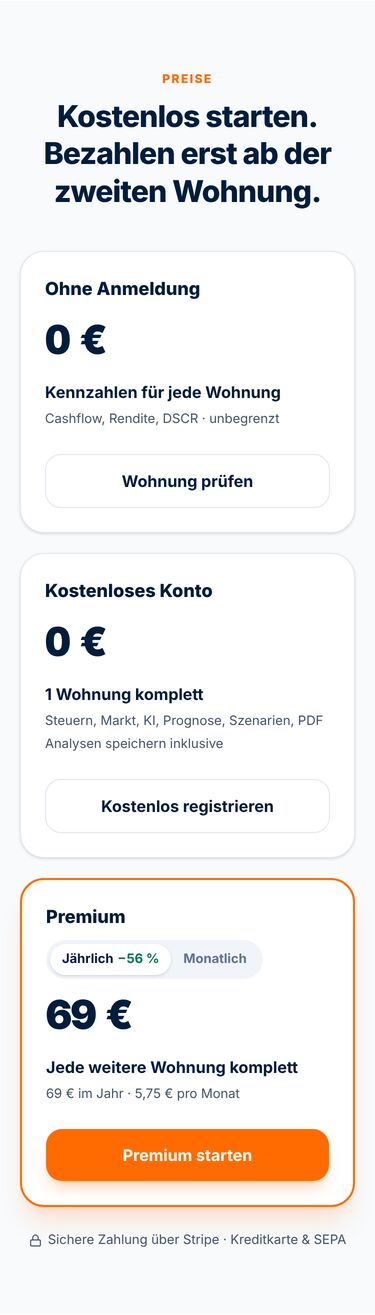
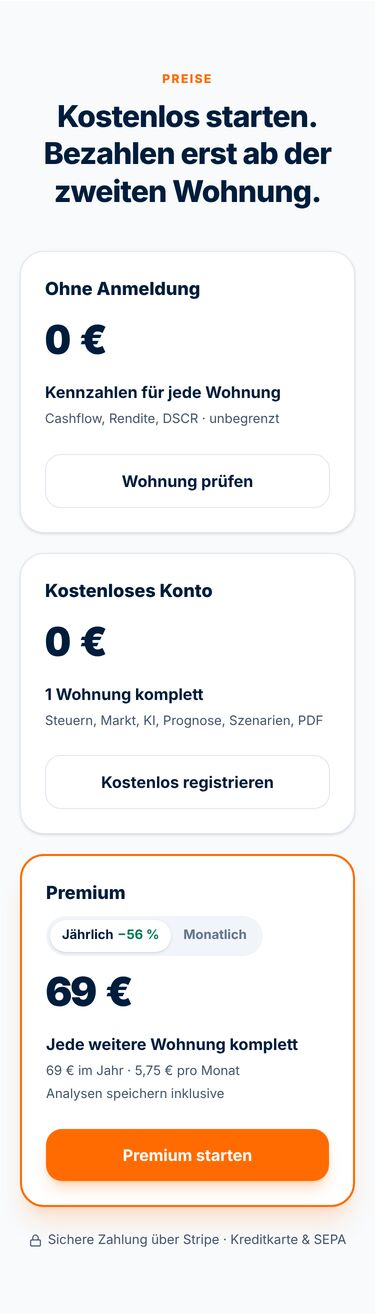
Speichern nur mit Premium
- /api/analysis und /api/scenarios (POST) prüfen serverseitig auf aktives Premium (403 sonst)
- Speichern-Button: ohne Premium 'Speichern mit Premium', öffnet die Paywall (quelle 'speichern')
- Paywall: eigene Überschrift fürs Speichern; 'Zu meiner Gratis-Analyse' entfällt
- Texte angepasst: Preisspalten, FAQ, Hilfe, Abo-Seite, Meine Analysen, Upgrade-Modal
- Screenshots der Preisbereiche aktualisiert

Claude-Session: https://claude.ai/code/session_016kt66GNdhUoermkE7JN8rk

Changed region(s): [[0.0293, 0.5612, 0.968, 0.8418], [0.4987, 0.6859, 0.6453, 0.7483]]

diff --git a/src/components/SecondAnalysisPaywall.tsx b/src/components/SecondAnalysisPaywall.tsx
@@ -1,13 +1,8 @@
 'use client';
 
-import React, { useEffect, useRef, useState } from 'react';
-import { useRouter } from 'next/navigation';
-import { useAuth } from '@clerk/nextjs';
-import { toast } from 'sonner';
-import { ArrowLeft, Home, X } from 'lucide-react';
+import React, { useEffect, useRef } from 'react';
+import { Home, X } from 'lucide-react';
 import { PricingSection } from '@/components/pricing/PricingSection';
-import { useGespeicherteAnalysen } from '@/hooks/useGespeicherteAnalysen';
-import { useImmoStore } from '@/store/useImmoStore';
 import { sichereAnalyseVorCheckout } from '@/lib/checkoutRueckkehr';
 
 type Props = {
@@ -18,12 +13,8 @@ type Props = {
   kaufpreis: number;
   flaeche?: number;
   zimmer?: number;
-  /** Adresse der verbrauchten Gratis-Analyse (kleingeschrieben, aus gratis_freigabe_{userId}) */
-  gratisAdresse: string | null;
   /** Sperre, die die Paywall geöffnet hat, z. B. "tab_markt" (für Tracking und den Tab nach der Zahlung) */
   quelle: string | null;
-  /** Nach dem Laden der Gratis-Analyse (z. B. KPI-Tab zeigen) */
-  onGratisAnalyseGeladen?: () => void;
 };
 
 const fmt = (v: number) => v.toLocaleString('de-DE', { maximumFractionDigits: 0 });
@@ -33,24 +24,22 @@ function zielTabAus(quelle: string | null): string | null {
   if (!quelle) return null;
   if (quelle.includes('markt')) return 'markt';
   if (quelle.includes('prognose')) return 'prognose';
-  if (quelle.includes('szenarien') || quelle.includes('pdf')) return 'szenarien';
+  if (quelle.includes('szenarien') || quelle.includes('pdf') || quelle === 'speichern') return 'szenarien';
   return null;
 }
 
 /**
- * Paywall, wenn ein Gratis-Nutzer nach seiner Gratis-Analyse eine 2. Wohnung vollständig prüfen will.
+ * Paywall für angemeldete Nutzer ohne Premium: nach der Gratis-Analyse eine 2. Wohnung vollständig prüfen
+ * oder eine Analyse speichern (quelle "speichern").
+ * Ohne Premium wird nichts gespeichert, deshalb gibt es hier keinen Weg zurück zu einer gespeicherten Gratis-Analyse.
  * Mobil als Bottom-Sheet, auf dem Desktop als Modal (native <dialog>: Fokus, Esc, Zurück-Geste).
  */
 export function SecondAnalysisPaywall({
-  isOpen, onClose, adresse, kaufpreis, flaeche, zimmer, gratisAdresse, quelle, onGratisAnalyseGeladen,
+  isOpen, onClose, adresse, kaufpreis, flaeche, zimmer, quelle,
 }: Props) {
   const dialogRef = useRef<HTMLDialogElement>(null);
   const titelRef = useRef<HTMLHeadingElement>(null);
-  const router = useRouter();
-  const { userId } = useAuth();
-  const loadAnalysis = useImmoStore(s => s.loadAnalysis);
-  const { analysen } = useGespeicherteAnalysen(isOpen);
-  const [laedtGratis, setLaedtGratis] = useState(false);
+  const speichern = quelle === 'speichern';
 
   useEffect(() => {
     const d = dialogRef.current;
@@ -78,27 +67,6 @@ export function SecondAnalysisPaywall({
     d.addEventListener('pointerup', hoch);
     return () => { d.removeEventListener('pointerdown', runter); d.removeEventListener('pointerup', hoch); };
   }, []);
-
-  const zurGratisAnalyse = async () => {
-    const ziel = gratisAdresse
-      ? analysen.find(a => (a.adresse || '').trim().toLowerCase() === gratisAdresse)
-      : undefined;
-    if (!ziel) {
-      router.push('/analysen');
-      return;
-    }
-    setLaedtGratis(true);
-    const ok = await loadAnalysis(ziel.analysisId, userId);
-    setLaedtGratis(false);
-    if (!ok) {
-      toast.error('Die Analyse konnte nicht geladen werden');
-      router.push('/analysen');
-      return;
-    }
-    onClose();
-    onGratisAnalyseGeladen?.();
-    router.push('/step/tabs');
-  };
 
   const details = [
     kaufpreis > 0 ? `${fmt(kaufpreis)} € Kaufpreis` : null,
@@ -128,13 +96,15 @@ export function SecondAnalysisPaywall({
         </form>
 
         <h2 id="paywall-titel" ref={titelRef} tabIndex={-1} className="pr-10 outline-none text-2xl font-black leading-tight tracking-tight sm:text-[26px]">
-          Deine Gratis-Analyse ist aufgebraucht
+          {speichern ? 'Speichern gibt es mit Premium' : 'Deine Gratis-Analyse ist aufgebraucht'}
         </h2>
         <p className="mt-2 text-[15px] leading-relaxed text-slate-600">
-          Mit Premium prüfst du jede weitere Wohnung genauso vollständig, inklusive Markt, Prognose, Szenarien und PDF-Report.
+          {speichern
+            ? 'Mit Premium speicherst du deine Analysen und prüfst jede weitere Wohnung vollständig.'
+            : 'Mit Premium prüfst du jede weitere Wohnung genauso vollständig, inklusive Markt, Prognose, Szenarien und PDF-Report.'}
         </p>
 
-        {(adresse || kaufpreis > 0) && (
+        {!speichern && (adresse || kaufpreis > 0) && (
           <div className="mt-5 flex items-start gap-3 rounded-2xl border border-slate-200 bg-slate-50 p-4">
             <span className="flex h-10 w-10 shrink-0 items-center justify-center rounded-xl bg-white text-[#ff6b00] shadow-sm">
               <Home size={20} />
@@ -151,20 +121,10 @@ export function SecondAnalysisPaywall({
           compact
           ort="paywall_second_analysis"
           returnTo="/step/tabs"
-          trackingParams={{ trigger: 'second_analysis', source: quelle ?? 'unknown' }}
+          trackingParams={{ trigger: speichern ? 'speichern' : 'second_analysis', source: quelle ?? 'unknown' }}
           onBeforeCheckout={() => sichereAnalyseVorCheckout(zielTabAus(quelle))}
           className="mt-5"
         />
-
-        <button
-          type="button"
-          onClick={zurGratisAnalyse}
-          disabled={laedtGratis}
-          className="mx-auto mt-4 flex items-center gap-1.5 text-sm font-bold text-slate-600 underline-offset-4 transition hover:text-[#001d3d] hover:underline disabled:opacity-60"
-        >
-          <ArrowLeft size={15} />
-          {laedtGratis ? 'Wird geladen …' : 'Zu meiner Gratis-Analyse'}
-        </button>
       </div>
     </dialog>
   );

diff --git a/src/config/pricing.ts b/src/config/pricing.ts
@@ -7,8 +7,10 @@
  * Das Modell (drei Stufen):
  * 1. Ohne Anmeldung, 0 €: Kennzahlen (Cashflow, Rendite, DSCR) für jede Wohnung, unbegrenzt.
  * 2. Kostenloses Konto, 0 €: GRATIS_ANALYSEN Wohnung(en) vollständig analysiert: Steuern & AfA,
- *    Markt & Lage, KI-Einschätzung, Prognose, Szenarien/Stresstests, PDF-Report. Speichern inklusive.
- * 3. Premium: jede weitere Wohnung vollständig analysiert, PREIS_JAHR im Jahr oder PREIS_MONAT im Monat.
+ *    Markt & Lage, KI-Einschätzung, Prognose, Szenarien/Stresstests, PDF-Report. Nicht speicherbar.
+ * 3. Premium: jede weitere Wohnung vollständig analysiert und Analysen speichern,
+ *    PREIS_JAHR im Jahr oder PREIS_MONAT im Monat.
+ * Speichern gibt es nur mit Premium (serverseitig geprüft in /api/analysis und /api/scenarios).
  * Anmelden muss man sich nur für die vollständige Analyse, bezahlen erst ab der 2. vollständigen Analyse.
  */
 
@@ -49,6 +51,8 @@ export const PLAENE = {
   premium: {
     titel: 'Premium',
     hauptzeile: 'Jede weitere Wohnung komplett',
+    /** Zweite Unterzeile der Premium-Spalte */
+    zusatz: 'Analysen speichern inklusive',
     standard: 'yearly' as Abrechnung,
     cta: 'Premium starten',
     optionen: {
@@ -96,7 +100,7 @@ export const STUFEN = {
     titel: 'Kostenloses Konto',
     preis: '0 €',
     hauptzeile: `${gratisWohnungen} komplett`,
-    unterzeilen: ['Steuern, Markt, KI, Prognose, Szenarien, PDF', 'Analysen speichern inklusive'],
+    unterzeilen: ['Steuern, Markt, KI, Prognose, Szenarien, PDF'],
     cta: 'Kostenlos registrieren',
     href: '/sign-up',
   },
@@ -121,7 +125,7 @@ export const PRICING_TEXTE = {
 export const PRICING_FAQ: Array<{ frage: string; antwort: string }> = [
   {
     frage: 'Was ist kostenlos, was kostet Premium?',
-    antwort: `Cashflow, Rendite und DSCR rechnest du ohne Anmeldung für jede Wohnung. Mit einem kostenlosen Konto prüfst du ${gratisWohnungen} komplett und speicherst deine Analysen. Jede weitere Wohnung prüfst du komplett mit Premium für ${preis(PREIS_JAHR)} € im Jahr oder ${preis(PREIS_MONAT)} € im Monat.`,
+    antwort: `Cashflow, Rendite und DSCR rechnest du ohne Anmeldung für jede Wohnung. Mit einem kostenlosen Konto prüfst du ${gratisWohnungen} komplett. Premium kostet ${preis(PREIS_JAHR)} € im Jahr oder ${preis(PREIS_MONAT)} € im Monat: Damit prüfst du jede weitere Wohnung komplett und speicherst deine Analysen.`,
   },
   {
     frage: 'Wann muss ich mich anmelden?',

diff --git a/src/components/SaveAnalysisButton.tsx b/src/components/SaveAnalysisButton.tsx
@@ -1,10 +1,11 @@
 'use client';
 
 import React, { useState } from 'react';
-import { Save, Check } from 'lucide-react';
+import { Save, Check, Lock } from 'lucide-react';
 import { useRouter } from 'next/navigation';
 import { useAuth } from '@clerk/nextjs';
 import { useImmoStore } from '@/store/useImmoStore';
+import { usePaywall } from '@/contexts/PaywallContext';
 import { saveAnalysis, saveScenario } from '@/lib/storage';
 import { toast } from 'sonner';
 
@@ -48,6 +49,7 @@ export function SaveAnalysisButton({ scenarioData }: SaveAnalysisButtonProps) {
   const [isSaving, setIsSaving] = useState(false);
   const [saved, setSaved] = useState(false);
   const router = useRouter();
+  const { isPremium, setShowUpgradeModal } = usePaywall();
 
   const handleSave = async () => {
     setIsSaving(true);
@@ -68,6 +70,11 @@ export function SaveAnalysisButton({ scenarioData }: SaveAnalysisButtonProps) {
         body: JSON.stringify(stateData),
       });
 
+      // Kein Premium (z. B. abgelaufen): Paywall statt Fehlermeldung
+      if (response.status === 403) {
+        setShowUpgradeModal(true, 'speichern');
+        return;
+      }
       if (!response.ok) {
         throw new Error('Failed to save analysis');
       }
@@ -137,16 +144,16 @@ export function SaveAnalysisButton({ scenarioData }: SaveAnalysisButtonProps) {
     }
   };
 
-  // Speichern ist kostenlos, braucht aber ein Konto
-  if (!userId) {
+  // Speichern gibt es nur mit Premium (ohne Konto führt die Paywall zur Anmeldung)
+  if (!userId || !isPremium) {
     return (
       <button
         type="button"
-        onClick={() => router.push('/sign-up?redirect_url=/step/tabs')}
+        onClick={() => setShowUpgradeModal(true, 'speichern')}
         className="btn-primary flex items-center gap-2"
       >
-        <Save size={18} />
-        Anmelden und speichern
+        <Lock size={18} />
+        Speichern mit Premium
       </button>
     );
   }

diff --git a/src/app/(auth)/hilfe/page.tsx b/src/app/(auth)/hilfe/page.tsx
@@ -20,8 +20,8 @@ const BEGRIFFE: Array<[string, string]> = [
 const FRAGEN: Array<[string, string]> = [
   ['Woher kommen die Marktdaten?', 'Aus einer aktuellen Recherche zu Angeboten und Vergleichsdaten für die Lage der Wohnung. Die Quellen stehen in der Analyse im Tab „Marktvergleich“.'],
   ['Kann ich Eingaben später ändern?', 'Ja. Öffne die Analyse und klick oben auf „Bearbeiten“. Alle Tabs rechnen danach neu.'],
-  ['Wie speichere ich eine Analyse?', 'Im Tab „Szenarien & PDF Export“ mit „Analyse speichern“. Gespeicherte Analysen findest du unter „Meine Analysen“. Speichern ist kostenlos.'],
-  ['Was ist im kostenlosen Plan enthalten?', 'Cashflow und Rendite rechnest du unbegrenzt kostenlos. Dazu kommt eine vollständige Analyse für eine Wohnung, mit Markt, Prognose, Szenarien und PDF-Report. Analysen speichern ist ebenfalls kostenlos. Für jede weitere Wohnung brauchst du Premium.'],
+  ['Wie speichere ich eine Analyse?', 'Im Tab „Szenarien & PDF Export“ mit „Analyse speichern“. Gespeicherte Analysen findest du unter „Meine Analysen“. Speichern gibt es mit Premium.'],
+  ['Was ist im kostenlosen Plan enthalten?', 'Cashflow, Rendite und DSCR rechnest du unbegrenzt kostenlos. Dazu kommt eine vollständige Analyse für eine Wohnung, mit Markt, Prognose, Szenarien und PDF-Report. Für jede weitere Wohnung und zum Speichern brauchst du Premium.'],
   ['Wie bekomme ich den PDF-Report?', 'Den PDF-Report erstellst du im Tab „Szenarien & PDF Export“. Er ist in deiner kostenlosen Analyse enthalten, für weitere Wohnungen brauchst du Premium.'],
   ['Wie kündige ich mein Abo?', 'Unter „Abo & Zahlung“ über „Abo verwalten“. Dort kannst du auch Rechnungen herunterladen und die Zahlungsart ändern.'],
   ['Ist das eine Anlageberatung?', 'Nein. imvestr ist ein Rechenwerkzeug. Die Ergebnisse sind Modellrechnungen und ersetzen keine Beratung.'],

diff --git a/src/app/(auth)/abo/page.tsx b/src/app/(auth)/abo/page.tsx
@@ -100,7 +100,7 @@ function AboInhalt() {
           <Merkmal ja>Markt- &amp; Lageanalyse</Merkmal>
           <Merkmal ja>Prognose &amp; Stresstests</Merkmal>
           <Merkmal ja>PDF-Report für die Bank</Merkmal>
-          <Merkmal ja>Analysen speichern</Merkmal>
+          <Merkmal ja={false}>Analysen speichern (Premium)</Merkmal>
         </ul>
       </KontoKarte>
     );
@@ -114,13 +114,13 @@ function AboInhalt() {
           {uebrig === 0 ? 'Kostenlose Analyse aufgebraucht' : uebrig === 1 ? 'Noch 1 kostenlose Analyse' : `Noch ${uebrig} kostenlose Analysen`}
         </p>
         <p className="mt-1 max-w-[62ch] text-sm text-slate-600">
-          Cashflow und Rendite rechnest du immer kostenlos. Deine kostenlose Analyse enthält Markt, Prognose, Szenarien und den PDF-Report. Analysen speichern ist ebenfalls kostenlos. Für jede weitere Wohnung brauchst du Premium.
+          Cashflow, Rendite und DSCR rechnest du immer kostenlos. Deine kostenlose Analyse enthält Markt, Prognose, Szenarien und den PDF-Report. Für jede weitere Wohnung und zum Speichern brauchst du Premium.
         </p>
         <ul className="mt-4 grid grid-cols-1 gap-2 sm:grid-cols-2">
           <Merkmal ja>Cashflow &amp; Rendite, unbegrenzt</Merkmal>
           <Merkmal ja>{gratisText}</Merkmal>
           <Merkmal ja>Szenarien &amp; PDF-Report in der kostenlosen Analyse</Merkmal>
-          <Merkmal ja>Analysen speichern</Merkmal>
+          <Merkmal ja={false}>Analysen speichern (Premium)</Merkmal>
         </ul>
       </KontoKarte>
 

diff --git a/src/components/UpgradeModal.tsx b/src/components/UpgradeModal.tsx
@@ -86,7 +86,7 @@ export function UpgradeModal({ isOpen, onClose, remainingFreeUses }: UpgradeModa
               <h2 className="text-3xl font-black tracking-tight">Premium freischalten</h2>
               <p className="text-white/70 text-sm font-semibold mt-1">
                 {remainingFreeUses > 0
-                  ? 'Unbegrenzt Wohnungen prüfen, mit Markt, Szenarien und PDF-Report'
+                  ? 'Jede weitere Wohnung komplett prüfen und Analysen speichern'
                   : 'Deine kostenlose Analyse ist aufgebraucht'
                 }
               </p>
@@ -101,12 +101,8 @@ export function UpgradeModal({ isOpen, onClose, remainingFreeUses }: UpgradeModa
             <h3 className="text-[10px] font-black uppercase text-slate-400 tracking-widest mb-5">Premium Features</h3>
             <div className="grid grid-cols-1 md:grid-cols-2 gap-4">
               {[
-                'Unbegrenzte vollständige Analysen',
-                'Markt- & Lageanalyse mit KI-Empfehlung',
-                'Szenarien & Stresstests',
-                'PDF-Report für die Bank',
-                'Premium-Support',
-                'Gespeicherte Analysen ohne Limit',
+                'Jede weitere Wohnung komplett analysiert',
+                'Analysen speichern',
               ].map((feature, idx) => (
                 <div key={idx} className="flex items-start gap-3">
                   <div className="w-6 h-6 bg-green-100 rounded-full flex items-center justify-center flex-shrink-0 mt-0.5">

diff --git a/src/app/(auth)/analysen/page.tsx b/src/app/(auth)/analysen/page.tsx
@@ -47,7 +47,7 @@ function NeueAnalyseKnopf({ klein = false }: { klein?: boolean }) {
 export default function MeineAnalysenPage() {
   const router = useRouter();
   const { userId } = useAuth();
-  // Speichern ist kostenlos: jede angemeldete Person sieht ihre gespeicherten Analysen
+  // Speichern gibt es nur mit Premium; früher gespeicherte Analysen bleiben für alle sichtbar
   const { analysen, laedt, loeschen } = useGespeicherteAnalysen();
   const loadAnalysis = useImmoStore(s => s.loadAnalysis);
   const [suche, setSuche] = useState('');
@@ -107,7 +107,7 @@ export default function MeineAnalysenPage() {
         <section className="mx-auto max-w-xl rounded-2xl border border-slate-200/80 bg-white p-8 text-center shadow-sm">
           <h2 className="text-lg font-bold text-[#001d3d]">Noch keine Analysen gespeichert</h2>
           <p className="mx-auto mt-2 max-w-md text-sm text-slate-600">
-            Prüf deine erste Wohnung und speichere sie im Tab „Szenarien &amp; PDF Export“. Sie erscheint dann hier.
+            Mit Premium speicherst du Analysen im Tab „Szenarien &amp; PDF Export“. Sie erscheinen dann hier.
           </p>
           <div className="mt-6"><NeueAnalyseKnopf /></div>
         </section>

diff --git a/src/lib/premiumServer.ts b/src/lib/premiumServer.ts
@@ -5,6 +5,21 @@ import { GRATIS_ANALYSEN } from '@/lib/preise';
  * Prüft serverseitig, ob der Nutzer Premium hat oder noch in seiner kostenlosen Analyse ist.
  * Welche Wohnung die kostenlose ist, merkt sich der Client; hier zählt nur das Kontingent.
  */
+/** Prüft serverseitig, ob der Nutzer ein aktives Premium-Abo hat (z. B. für Speichern) */
+export async function istPremium(userId: string): Promise<boolean> {
+  const supabase = getSupabaseServerClient();
+  if (!supabase) return false;
+
+  const { data, error } = await supabase
+    .from('user_premium_usage')
+    .select('is_premium, premium_until')
+    .eq('user_id', userId)
+    .maybeSingle();
+
+  if (error || !data) return false;
+  return !!data.is_premium && !!data.premium_until && new Date(data.premium_until) > new Date();
+}
+
 export async function darfVollanalyse(userId: string): Promise<boolean> {
   const supabase = getSupabaseServerClient();
   if (!supabase) return false;

diff --git a/src/components/pricing/PricingSection.tsx b/src/components/pricing/PricingSection.tsx
@@ -258,8 +258,11 @@ export function PricingSection({
             )}
             <p className="mt-5 font-bold text-[#001d3d]">{PLAENE.premium.hauptzeile}</p>
             <div className="mb-6 mt-1.5 flex-1 space-y-1 text-[13px] text-slate-600">
-              <p>{gruender?.amount ? `${gruender.priceLabel} im Jahr · ${preis(gruender.amount / 12)} € pro Monat` : option.hinweis}</p>
-              {gruender && <p className="font-bold text-[#ff6b00]">{gruenderpreisHinweis(gruender.endsAtLabel)}</p>}
+              {/* Mit Gründerpreis ersetzt dessen Hinweis die Preiszeile, damit es bei 2 Unterzeilen bleibt */}
+              {gruender
+                ? <p className="font-bold text-[#ff6b00]">{gruenderpreisHinweis(gruender.endsAtLabel)}</p>
+                : <p>{option.hinweis}</p>}
+              <p>{PLAENE.premium.zusatz}</p>
             </div>
 
             <button

diff --git a/src/app/api/analysis/route.ts b/src/app/api/analysis/route.ts
@@ -1,6 +1,7 @@
 import { NextResponse } from 'next/server';
 import { auth } from '@clerk/nextjs/server';
 import { getSupabaseServerClient } from '@/lib/supabase';
+import { istPremium } from '@/lib/premiumServer';
 import { dedupeRows, isMissingColumnError, resolveAnalysisRowId, rowToListItem } from '@/lib/analysisDb';
 
 // Save analysis
@@ -13,6 +14,11 @@ export async function POST(req: Request) {
         { error: 'Nicht authentifiziert' },
         { status: 401 }
       );
+    }
+
+    // Speichern gibt es nur mit Premium
+    if (!(await istPremium(userId))) {
+      return NextResponse.json({ error: 'Speichern gibt es mit Premium.' }, { status: 403 });
     }
 
     const data = await req.json();

diff --git a/src/app/api/scenarios/route.ts b/src/app/api/scenarios/route.ts
@@ -1,6 +1,7 @@
 import { NextResponse } from 'next/server';
 import { auth } from '@clerk/nextjs/server';
 import { getSupabaseServerClient } from '@/lib/supabase';
+import { istPremium } from '@/lib/premiumServer';
 import { resolveAnalysisRowId } from '@/lib/analysisDb';
 
 // Save scenario
@@ -13,6 +14,11 @@ export async function POST(req: Request) {
         { error: 'Nicht authentifiziert' },
         { status: 401 }
       );
+    }
+
+    // Speichern gibt es nur mit Premium
+    if (!(await istPremium(userId))) {
+      return NextResponse.json({ error: 'Speichern gibt es mit Premium.' }, { status: 403 });
     }
 
     const data = await req.json();

diff --git a/src/contexts/PaywallContext.tsx b/src/contexts/PaywallContext.tsx
@@ -120,7 +120,7 @@ function PaywallProviderInner({ children }: { children: ReactNode }) {
       // verbraucht ist, also beim Start der 2. vollständigen Analyse. Die konkrete Sperre steht in source.
       const zweiteAnalyse = !!isSignedIn && !isPremium;
       trackEvent(AnalyticsEvents.PAYWALL_VIEWED, {
-        trigger: zweiteAnalyse ? 'second_analysis' : (trigger || 'unknown'),
+        trigger: trigger === 'speichern' ? 'speichern' : zweiteAnalyse ? 'second_analysis' : (trigger || 'unknown'),
         source: trigger || 'unknown',
         signed_in: !!isSignedIn,
         free_analyses_used: premiumUsageCount,
